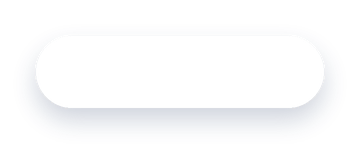
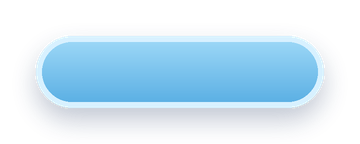
feat(ui): 面板、胶囊、槽、卡片全部改为实心不透明；道具角标最多显示 99

diff --git a/tools/art/kit.py b/tools/art/kit.py
@@ -1,5 +1,5 @@
 #!/usr/bin/env python3
-"""用代码绘制整套 UI 部件：「轻玻璃」风格（用户 2026-11-15 选定）。
+"""用代码绘制整套 UI 部件：「轻玻璃」风格（用户 2026-11-15 选定），面板一律实心不透明（用户反馈透明组件看不清）。
 
 半透明玻璃底 + 细白边 + 柔和投影；按钮只有很淡的纵向渐变和一条细高光线；
 圆角适中；不做果冻感和大块高光。尺寸与对齐完全由代码控制。
@@ -169,23 +169,23 @@ def main() -> None:
     save("btn_gear", stamp(button("blue", 22, 72, 72), gear(44)), stretch=False)
     save("btn_close", stamp(button("red", 22, 72, 72), cross(44, False)), stretch=False)
 
-    # 玻璃：顶栏、暂存槽托盘、选中的页签
-    save("glass", box(96, 96, 32, rgba("FFFFFF", 0.26), None, rgba("FFFFFF", 0.65), 3, shadow=0.2, blur=6, drop=6))
-    save("tab_on", box(72, 72, 26, rgba("FFFFFF", 0.26), None, rgba("FFFFFF", 0.65), 3))
-    # 深色胶囊：数字底、进度条底、暂存格
-    save("chip", box(72, 60, 30, rgba("061F4D", 0.42), None, rgba("FFFFFF", 0.32), 2))
-    save("slot", box(76, 76, 18, rgba("061F4D", 0.3), None, rgba("FFFFFF", 0.22), 2))
+    # 实心面板：顶栏、底栏、暂存槽托盘、选中的页签（不透明，背景再花也读得清）
+    save("glass", box(96, 96, 30, rgba("2C7AD2"), rgba("1C5AAE"), rgba("A5D4FF", 0.9), 2.5, shadow=0.3, blur=6, drop=6, shine=0.35))
+    save("tab_on", box(72, 72, 24, rgba("5DB8FF"), rgba("2F8FEA"), rgba("FFFFFF", 0.85), 2.5, shine=0.5))
+    # 深色胶囊：数字底、进度条底、暂存格（同样实心）
+    save("chip", box(72, 60, 30, rgba("123F84"), rgba("0E3170"), rgba("6FB0F0", 0.7), 2))
+    save("slot", box(76, 76, 18, rgba("1A5CAB"), rgba("144C93"), rgba("5AA0EA", 0.8), 2))
     save("fill", box(72, 44, 22, rgba("63D444"), rgba("43B528"), rgba("FFFFFF", 0.5), 2, shine=0.45))
     # 浅色面板：弹窗、列表行、卡片
-    save("panel", box(120, 120, 44, rgba("FFFFFF", 0.95), rgba("EEF7FF", 0.95), white, 3, shadow=0.34, blur=12, drop=14))
-    save("row", box(96, 96, 28, rgba("FFFFFF", 0.9), rgba("EEF7FF", 0.9), white, 3, shadow=0.16, blur=5, drop=5))
-    save("card", box(96, 96, 28, rgba("FFFFFF", 0.9), rgba("EEF7FF", 0.9), white, 3, shadow=0.16, blur=5, drop=5))
+    save("panel", box(120, 120, 44, rgba("FFFFFF"), rgba("EEF7FF"), white, 3, shadow=0.34, blur=12, drop=14))
+    save("row", box(96, 96, 28, rgba("FFFFFF"), rgba("EAF4FF"), white, 3, shadow=0.16, blur=5, drop=5))
+    save("card", box(96, 96, 28, rgba("FFFFFF"), rgba("EAF4FF"), white, 3, shadow=0.16, blur=5, drop=5))
     save("card_gold", box(96, 96, 28, rgba("FFF1BF"), rgba("FFDF86"), white, 3, shadow=0.2, blur=5, drop=5))
     # 鱼缸架：一条玻璃搁板
-    save("shelf", box(96, 24, 12, rgba("FFFFFF", 0.8), rgba("FFFFFF", 0.42), None, 0, shadow=0.2, blur=4, drop=4))
+    save("shelf", box(96, 24, 12, rgba("9AD6F6"), rgba("5CB0E4"), rgba("D8F1FF"), 2, shadow=0.25, blur=4, drop=4))
 
     # 底部渐隐条：从透明过渡到深蓝，衬托页签和道具键
-    fade = gradient((8 * K, 96 * K), NAVY + (0,), NAVY + (150,), 0, 96 * K)
+    fade = gradient((8 * K, 96 * K), NAVY + (0,), NAVY + (215,), 0, 96 * K)
     save("fade", fade)
 
     save("badge_green", circle(80, rgba("63D444"), rgba("3FAE25")), stretch=False)
